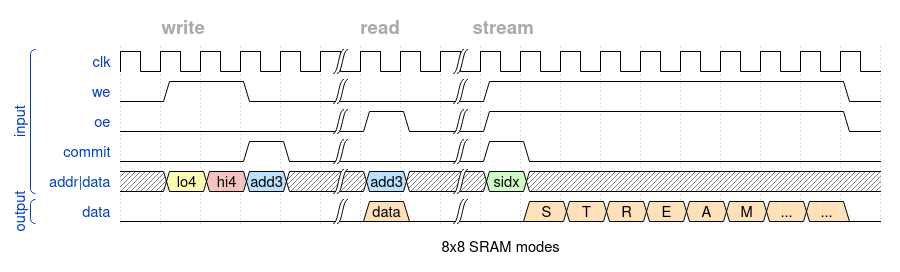
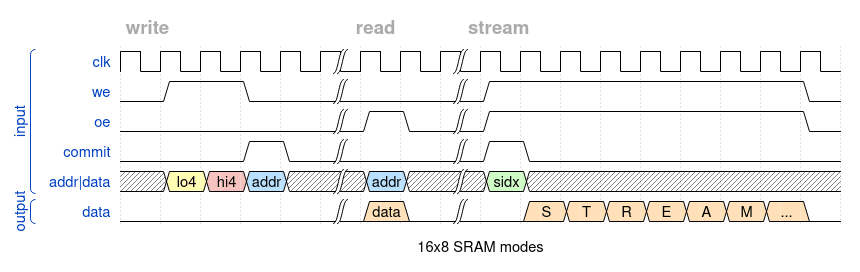
updated doc/picture

diff --git a/README.md b/README.md
@@ -1,10 +1,12 @@
 ![](../../workflows/gds/badge.svg) ![](../../workflows/docs/badge.svg) ![](../../workflows/test/badge.svg)
 
-# Tiny Tapeout SRAM
+# Tiny Tapeout SRAM & Streaming Signal Generator
 
 Tiny Tapeout #1 included a 4-bit CPU, a 6-bit CORDIC, an FPGA, and other tiny
 circuits.  It seemed like an SRAM was missing, so this is my attempt to remedy
-that in Tiny Tapeout #2.
+that in Tiny Tapeout #2. This circuit also has an additional feature to stream
+internal data without continuously updating the address, enabling use as a
+signal generator.
 
 ## Circuit Logic
 
@@ -18,7 +20,7 @@ internal shift register value to memory at the address provided, or when using
 the Stream mode, set the starting index or address to stream from.
 
 ![16x8 SRAM](./16x8sram.png)
-[WaveDrom](https://wavedrom.com/editor.html?%7B%0A%20%20signal%3A%20%5B%5B%27input%27%2C%0A%20%20%7Bname%3A%20%20%20%20%20%20%20%27clk%27%2C%20wave%3A%20%27p....%7C..%7C..........%27%7D%2C%0A%20%20%7Bname%3A%20%20%20%20%20%20%20%20%27we%27%2C%20wave%3A%20%2701.0.%7C..%7C1........0%27%7D%2C%0A%20%20%7Bname%3A%20%20%20%20%20%20%20%20%27oe%27%2C%20wave%3A%20%270....%7C10%7C1........0%27%7D%2C%0A%20%20%7Bname%3A%20%20%20%20%27commit%27%2C%20wave%3A%20%270..10%7C..%7C10........%27%7D%2C%0A%20%20%7Bname%3A%20%27addr%7Cdata%27%2C%20wave%3A%20%27x395x%7C5x%7C7x........%27%2C%20data%3A%20%5B%27lo4%27%2C%20%27hi4%27%2C%20%27add3%27%2C%20%27add3%27%2C%27sidx%27%5D%7D%2C%0A%20%20%5D%2C%5B%27output%27%2C%0A%20%20%7Bname%3A%20%20%20%20%20%20%27data%27%2C%20wave%3A%20%270....%7C40%7C.444444440%27%2C%20data%3A%20%5B%27data%27%2C%20%27S%27%2C%27T%27%2C%27R%27%2C%27E%27%2C%27A%27%2C%27M%27%2C%27...%27%2C%27...%27%5D%7D%0A%20%20%5D%5D%2C%0A%20%20head%3A%20%7Btext%3A%0A%20%20%5B%27tspan%27%2C%0A%20%20%20%20%5B%27tspan%27%2C%20%7Bclass%3A%27muted%20h4%27%7D%2C%20%27write%27%5D%2C%0A%20%20%20%20%5B%27tspan%27%2C%20%7Bclass%3A%27muted%20h4%27%7D%2C%20%27%20%20%20%20%20%20%20%20%20%20%20%20%20%20%20%20%20%20%20%20%20%20%20%20%20%20%20%20%20%20read%20%20%20%20%20%20%20%20%20%20%20%20%20%20%27%5D%2C%0A%20%20%20%20%5B%27tspan%27%2C%20%7Bclass%3A%27muted%20h4%27%7D%2C%20%27stream%20%20%20%20%20%20%20%20%20%20%20%20%20%20%20%20%20%20%20%20%20%20%20%20%20%20%20%20%20%20%20%20%20%20%20%20%20%20%20%20%20%20%20%20%20%20%20%20%20%20%20%20%20%20%20%20%20%20%20%27%5D%0A%20%20%5D%7D%2C%0A%20%20foot%3A%20%7Btext%3A%0A%20%20%5B%27tspan%27%2C%20%278x8%20SRAM%20modes%27%5D%7D%0A%7D)
+[WaveDrom](https://wavedrom.com/editor.html?%7B%0A%20%20signal%3A%20%5B%5B%27input%27%2C%0A%20%20%7Bname%3A%20%20%20%20%20%20%20%27clk%27%2C%20wave%3A%20%27p....%7C..%7C.........%27%7D%2C%0A%20%20%7Bname%3A%20%20%20%20%20%20%20%20%27we%27%2C%20wave%3A%20%2701.0.%7C..%7C1.......0%27%7D%2C%0A%20%20%7Bname%3A%20%20%20%20%20%20%20%20%27oe%27%2C%20wave%3A%20%270....%7C10%7C1.......0%27%7D%2C%0A%20%20%7Bname%3A%20%20%20%20%27commit%27%2C%20wave%3A%20%270..10%7C..%7C10.......%27%7D%2C%0A%20%20%7Bname%3A%20%27addr%7Cdata%27%2C%20wave%3A%20%27x395x%7C5x%7C7x.......%27%2C%20data%3A%20%5B%27lo4%27%2C%20%27hi4%27%2C%20%27addr%27%2C%20%27addr%27%2C%27sidx%27%5D%7D%2C%0A%20%20%5D%2C%5B%27output%27%2C%0A%20%20%7Bname%3A%20%20%20%20%20%20%27data%27%2C%20wave%3A%20%270....%7C40%7C.44444440%27%2C%20data%3A%20%5B%27data%27%2C%20%27S%27%2C%27T%27%2C%27R%27%2C%27E%27%2C%27A%27%2C%27M%27%2C%27...%27%5D%7D%0A%20%20%5D%5D%2C%0A%20%20head%3A%20%7Btext%3A%0A%20%20%5B%27tspan%27%2C%0A%20%20%20%20%5B%27tspan%27%2C%20%7Bclass%3A%27muted%20h4%27%7D%2C%20%27write%27%5D%2C%0A%20%20%20%20%5B%27tspan%27%2C%20%7Bclass%3A%27muted%20h4%27%7D%2C%20%27%20%20%20%20%20%20%20%20%20%20%20%20%20%20%20%20%20%20%20%20%20%20%20%20%20%20%20%20%20%20%20%20%20%20%20%20read%20%20%20%20%20%20%20%20%20%20%20%20%20%20%27%5D%2C%0A%20%20%20%20%5B%27tspan%27%2C%20%7Bclass%3A%27muted%20h4%27%7D%2C%20%27stream%20%20%20%20%20%20%20%20%20%20%20%20%20%20%20%20%20%20%20%20%20%20%20%20%20%20%20%20%20%20%20%20%20%20%20%20%20%20%20%20%20%20%20%20%20%20%20%20%20%20%20%20%20%20%20%20%20%20%20%27%5D%0A%20%20%5D%7D%2C%0A%20%20foot%3A%20%7Btext%3A%0A%20%20%5B%27tspan%27%2C%20%2716x8%20SRAM%20modes%27%5D%7D%0A%7D)
 
 ## What is Tiny Tapeout?
 
